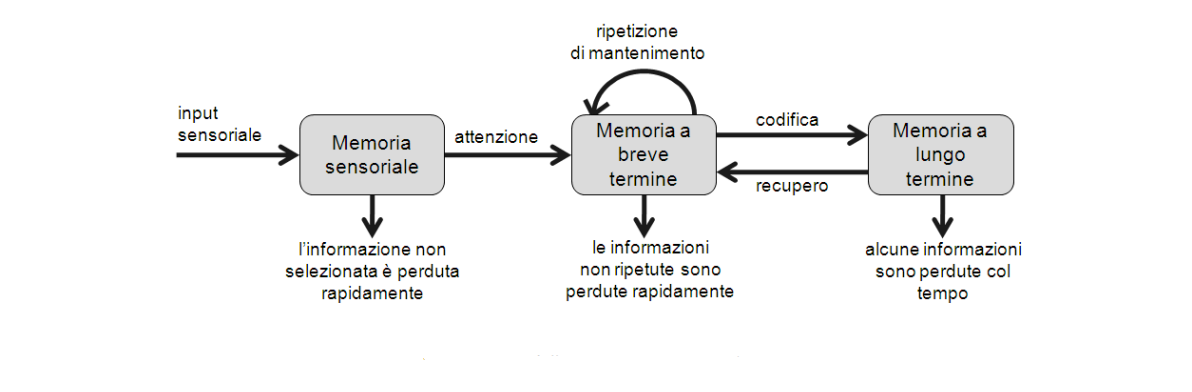
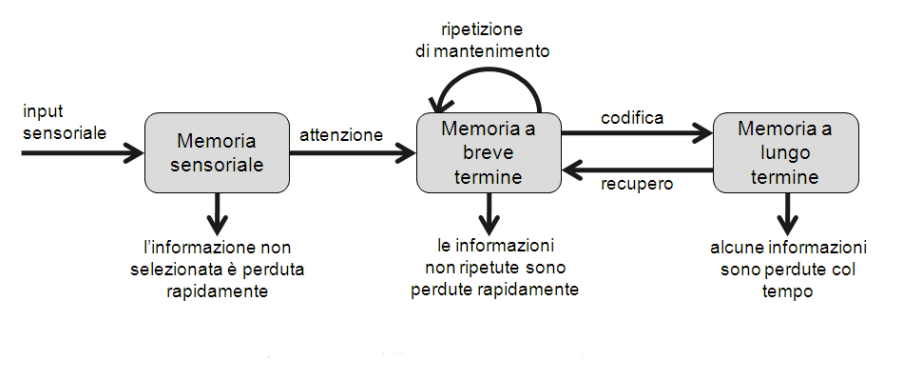
changes ium3

Changed region(s): [[0.0, 0.0617, 0.9518, 0.7712], [0.4298, 0.6787, 0.6447, 0.7712]]

diff --git a/src/components/Blog/articoli/IUM/IUM3/IUM3.js b/src/components/Blog/articoli/IUM/IUM3/IUM3.js
@@ -9,7 +9,12 @@ import '../../Articoli.css';
 import Memorie from './Memorie.webp';
 import Latex from 'react-latex';
 function IUM3() {
-    const piuomeno=`$$ \\pm $$`
+    const piuomeno=`$$ \\pm $$`;
+    const alfa=`$$ \\alpha $$`;
+    const tUnnno=`$$ T_1 $$`;
+    const tN=`$$ T_n $$`;
+    const formula=`$$ T_n = T_1 \\times n^{- \\alpha}$$`;
+    const formula2=`$$ T = a + b \\times log_2 \\bigl( \\frac{D}{S} + 1 \\bigr) $$`;
   return (
     <div>
         <Helmet>
@@ -17,14 +22,16 @@ function IUM3() {
             crossorigin="anonymous"></script>
             <meta name="viewport" content="width=device-width, initial-scale=1" />
             <title>Federico Calò Blog -  3. Interazione Uomo Macchina - Conoscere l&#39;utente</title>
-            <meta name='keywords' content='interazione uomo macchina, ium, appunti universitari, usabilità, modello di Norman, ciclo di feedback,memorabilità,affordance,apprendibilità, accessibilità '/>
-            <meta name='description' content='Cosa si intende per memorabilità? Che cos&#39;è l&#39;apprendibilià? Andiamo a scoprirlo dandone una definizione in base ai vari standard ISO '/>
+            <meta name='keywords' content='interazione uomo macchina, ium, appunti universitari, usabilità, conoscere l&#39;utente, attenzione, task analysis, GOMS, goals, operators, Methods, Selection rules, attenzione selettiva, attenzione divisiva, fattori esogeni, fattori endogeni, memoria sensoriale, memoria a breve termine, memoria a lungo termine, short time memory, STM '/>
+            <meta name='description' content=' All&#39;interno dello sviluppo incentrato sull&#39;utente, possiamo visualizzare l&#39;utente da molteplici punti di vista. E&#39; fondamentale analizzare i processi cognitivi, le caratteristiche personali e il 
+                    ruolo dei singoli utenti che interagiscono con il sistema. Il progettista di sistemi interattivi non deve perdere di vista questi obiettivi, vediamo come. '/>
             <meta name='robots' content='index,follow'/>
             <meta name='language' content='IT'/>
             <meta name='topic' content='Programmazione e Sviluppo'/>
             <meta name='author' content='Federico Calò, fedcal01@gmail.com'/>
             <meta name='og:title' content='Federico Calò Blog - 3. Interazione Uomo Macchina - Conoscere l&#39;utente'/>
-            <meta name='og:description' content='Cosa si intende per memorabilità? Che cos&#39;è l&#39;apprendibilià? Andiamo a scoprirlo dandone una definizione in base ai vari standard ISO'/>
+            <meta name='og:description' content='All&#39;interno dello sviluppo incentrato sull&#39;utente, possiamo visualizzare l&#39;utente da molteplici punti di vista. E&#39; fondamentale analizzare i processi cognitivi, le caratteristiche personali e il 
+                    ruolo dei singoli utenti che interagiscono con il sistema. Il progettista di sistemi interattivi non deve perdere di vista questi obiettivi, vediamo come. '/>
             <meta name='og:email' content='fedcal01@gmail.com'/>
             <meta name='og:phone_number' content='+39 3332673965'/>
             <meta name="apple-mobile-web-app-title" content="Federico Calò Blog -  3. Interazione Uomo Macchina - Conoscere l&#39;utente"/> 
@@ -61,13 +68,13 @@ function IUM3() {
                     <li><i>livello comportamentale</i></li>
                     <li><i>il ruolo in cui l'utente si trova</i></li>
                 </ul>
-                <p className='post-text'> Ogni livello deve essere studiato con metodi diversi, approcciando a diversi metodi interdisciplinari, quali ad esempio quelli relativi alla psicologia sperimentale e all'etnografia. A livello cognitivo, una pietra miliare è rappresentata dal libro <a href="https://amzn.to/3W1QA80" className='link'>"The Psychology of Human-Computer Interaction"</a>,
-                 in cui gli autori specificano come i processi sensoriali, cognitivi e motori che caratterizzano l'utente influenza il modo in cui il progettista sviluppi il sistema in maniera consona rispetto ai compiti richiesti. Questo avviene generalmente attraverso l'analisi dei compiti, chiamata generalmente <strong>task analysis</strong>, attraverso la quale si valutano diverse soluzioni
-                  progettuali prima della loro realizzazione, per poter scegliere quella più conveniente dal punto di vista prestazionale. Nel libro si può riscontrare la descrizione di un metodo che prende il nome di <strong>GOMS</strong>, ovvero <i>goals, operators, Methods and Selection rules</i>, in base al quale si decompone l'interazione con il sistema nelle sue azioni elementari. I <i>Goals</i>  definiscono 
+                <p className='post-text'> Ogni livello deve essere studiato con metodi disciplinari diversi, quali ad esempio quelli relativi alla psicologia sperimentale e all'etnografia. A livello cognitivo, una pietra miliare è rappresentata dal libro <a href="https://amzn.to/3W1QA80" className='link'>"The Psychology of Human-Computer Interaction"</a>,
+                 in cui gli autori specificano come i processi sensoriali, cognitivi e motori che caratterizzano l'utente, influenzano il modo in cui il progettista sviluppa il sistema in maniera consona rispetto ai compiti richiesti. Questo avviene generalmente attraverso l'analisi dei compiti, chiamata generalmente <strong>task analysis</strong>, attraverso la quale si valutano diverse soluzioni
+                  progettuali prima della loro realizzazione, per poter scegliere quella più conveniente dal punto di vista prestazionale. Nel libro citato, si può riscontrare la descrizione di un metodo che prende il nome di <strong>GOMS</strong>, ovvero <i>goals</i>, <i>operators</i>, <i>Methods</i> and <i>Selection rules</i>, in base alle quali si decompone l'interazione con il sistema nelle sue azioni elementari. I <i>Goals</i>  definiscono 
                   gli obiettivi che l'utente intende raggiungere, le <i>Operators</i> costituiscono tutte quelle azioni necessarie a raggiungere gli obiettivi. Mentre, per quanto riguarda i <i> Methods</i>, vengono raggruppate tutte le seguenze di operazioni che il sistema offre per raggiungere ogni singolo goals. L'insieme di più methods possibili per uno stesso obiettivo, prende il nome
                   di <i>Selection rules</i>, correlato da una descrizione di criteri di selezione di un metodo rispetto ad un altro.</p>
                 
-                <p className='post-text'>Questa tecnica permette al progettista di individuare i limiti in termini di prestazione del sistema, tenendo conto dei limiti dell'utente e della possibilità che quest'ultimo sbagli. Entra in gioco anche l'attenzione, ovvero l'insieme di processi cognitivi che consentono all'utente di selezionare solo le informazioni più importanti da elaborare. E' come se 
+                <p className='post-text'>Questa tecnica permette al progettista di individuare i limiti in termini di prestazione del sistema, tenendo conto dei limiti dell'utente e della possibilità che quest'ultimo sbagli. Entra in gioco anche <strong>l'attenzione</strong>, ovvero l'insieme di processi cognitivi che consentono all'utente di selezionare solo le informazioni più importanti da elaborare. E' come se 
                  vi fosse un filtro che ci permette di focalizzare l'attenzione in particolari dettagli rispetto ad altri. Questo ci permette di classificare l'attenzione in <strong>attenzione selettiva</strong>, quando ci si focalizza su un singolo evento, e in <strong>attenzione divisiva</strong>, quando vengono seguiti più eventi contemporaneamente. Questi due tipi di attenzione sono tra di loro
                   dipendenti, in quanto aspetti di uno stesso fenomeno. Vi sono diverse teorie sull'attenzione che analizzano di diversi fattori esterni, <i>esogeni</i>, e interni, <i>endogeni</i>. I primi fanno riferimento alle caratteristiche degli stimoli che arrivano ai nostri sensi, mentre nel secondo caso siamo noi a guidare l'attenzione. Inoltre si è dimostrato come riusciamo a concentrare 
                   maggiore attenzione in compiti sempre più difficili.</p>
@@ -81,7 +88,7 @@ function IUM3() {
 
                 <p className='post-text'>Un altro elemento da tenere in considerazione è la memoria dell'utente che può essere divisa in <i>memoria sensoriale</i>, <i>memoria a breve termine</i>, <i>memoria a lungo termine</i>. Questi tipi di memoria sono tra di loro collegate, e si può rappresentare in questo modo: </p>
                 <div className='box-image'>
-                    <img src={Memorie} alt="Schema di rete ad accesso in forma ibrida" className='post-img2'/>
+                    <img src={Memorie} alt="Schema di rete ad accesso in forma ibrida" className='post-img3'/>
                     <p className='image-capture'>Figura 1: Vari tipi di memorie</p>
                 </div>
                 <p className='post-text'>Come si può evincere, quando arriva un <i>input sensoriale</i>, i suoi dati vengono elaborati dapprima dalla memoria sensoriale, la quale li registra temporaneamente, li seleziona e li carica nella memoria a breve termine. Quest'ultima è la memoria dedicata alle elaborazioni mentali, anche se le informazioni vengono memorizzate per un periodo di tempo molto breve, in quanto 
@@ -89,7 +96,24 @@ function IUM3() {
                 in modo unitario. Questo aspetto deve essere considerato dal progettista che dovrà facilitare il chunking, facendo memorizzare all'utente solo elementi che abbiano significato, e deve minimizzare le richieste di memorizzazione. Per quanto riguarda la memoria a lungo termine, il progetista deve riuscire a trovare il miglior modo possibile per poter codificare e recuperare le informazioni in essa.</p>
 
                 <p className='post-text'> Un altro aspetto dell'utente che il progettista deve tenere in considerazione è la vista, il cui sguardo segue percorsi irregolari, dettati a volte dalla disposizione degli oggetti su cui cade l'attenzione. In questa situazione è sufficiente utilizzare alcune tecniche di eye-tracking, ovvero tecniche attraverso le quali si cerca di seguire la direzione dello sguardo, andando successivamente
-                 ad analizzarla e a distribuire in maniera ottimale gli oggetti. Le ultime due caratteristiche da considerare si riferiscono alle attività motorie e il contesto in cui l'utente si identifica in relazione del sistema.</p>
+                 ad analizzarla e a distribuire in maniera ottimale gli oggetti. Vi sono diverse componenti dell'occhio che entrano in gioco e che vanno esaminate, ad esempio l'asse visivo o banamelmente i fotorecettori. Quest'ultimi fanno in modo che noi distinguiamo meglio i dettagli e i colori degli oggetti quando vengono fissati direttamente. Si distingue tra <strong>visione foveale</strong>, quando il centro dell'asse visivo guarda un
+                 determinato oggetto, o di <strong>visione periferica</strong>, quando lo vediamo con la "coda dell'occhio". Inoltre, un elemento da non sottovalutare, è <strong>l'acuità visiva</strong>, o <i>visual acuity</i>, ovvero la capacità dell'occhio di distinguere due punti vicini. Questa proprietà è diversa da individuo a individuo e diminuisce con l'età.</p>
+
+                <p className='post-text'>Oltre all'acuità visiva, un individuo differisce dall'altro anche per la capacità di distinguere correttamente i colori, il cui compito è affidato alla retina dell'occhio. I tre coni principali che vengono captati sono il <i>Red</i> (R), il <i>Blue</i> (B)  e il <i>Green</i> (G). In alcuni soggetti la visione di uno di questi coni è difettosa, mancante o alterata. Questo fenomeno prende
+                 il nome di <strong>cecità cromatica</strong>, detto comunemente <i>daltonismo</i>. Quindi il progettista deve considerare anche tutte quelle patologie che possono creare una bariera tra l'utente e il sistema, cercando di risolverle attraverso opportune tecnologie.</p>
+
+                 <p className='post-text'>Un'altra caratteristica dell'utente è il suo sistema motorio interessato in alcuni schemi motori che l'utente deve apprendere per interagire con il sistema. Il primo schema motorio è il coordinamento dell'occhio e della mano che interessa l'utilizzo di alcuni sistemi di manipolazione tra cui il mouse. Quando il progettista inserisce uno schema motorio particolare, deve permettere ad ogni utente di poterlo 
+                    imparare, anche attraverso particolari strumenti che aiutano ad abbattere tutte quelle bariere che si creano nel caso in cui ci sia un difetto. L'apprendimento motorio di un utente procede per gradi, eseguendo i movimenti iniziali in maniera incerta, approssimata e commettendo errori; mentre con il passare del tempo l'utente acquisisce esperienza e migliora la sua interazione motoria con il sistema. Si deduce 
+                    che il tempo necessario per compiere un compito si riduce con la pratica, secondo una legge di potenza definita <strong>legge di potenza della pratica</strong> <i>(Power Law of Practice)</i>. Definendo <Latex>{tUnnno}</Latex> come tempo impiegato per eseguire la prima prova, <Latex>{tN}</Latex> come il tempo impiegato per effettuare l'n-esima prova e <Latex>{alfa}</Latex> una costante per dipendente dal tipo di 
+                    compito il cui valore è tipicamente nell'intervallo 0.2-0.6, si ha la seguente formula: <Latex>{formula}</Latex>. La rappresentazione grafica di questa funzione rappresenta la <i>curva di apprendimento media</i>, o definita meglio come <strong>learning curve</strong>, relativa al compito che si sta studiando. Quanto più velocemente questa curva si avvicina alle ascisse, più facilmente l'utente imparerà il compito.
+                 </p>
+
+                 <p className='post-text'>
+                    Un'altra legge molto importante è la <strong>Legge di Fitts</strong>, la quale mette in relazione il sistema con l'azione più frequente che l'utente possa fare, ovvero l'azione di spostare il dito sul bersaglio. Definendo <i>T</i> come il tempo medio per effettuare il movimento, <i>D</i> come la distanza tra il punto di partenza e il centro del bersaglio, <i>S</i> come la dimensione del bersaglio misurata lungo l'asse del 
+                    movimento, <i>a</i> e <i>b</i> definiti come costanti dipendenti dallo strumento di puntamento utilizzato, a indica in particolare il tempo necessario per metter il movimento/fermare il dispositivo, si ha la seguente formula: <Latex>{formula2}</Latex> . Questa legge può essere applicata in svariate situazioni per modellare azioni point and click o di drag and drop con differenti dispositivi di puntamento. La si può applicare 
+                    solo ai mivmenti lungo una sola dimensione e in condizioni normali. Un accorgimento che questa legge ci porta a considerare è l'applicazione di menù pop-up che appaiono accanto al puntatore, in sostituzione dei menù a tendina.
+
+                 </p>
                </section>
         </div>
         <Footer/>

diff --git a/src/components/Blog/articoli/IUM/IUM.css b/src/components/Blog/articoli/IUM/IUM.css
@@ -7,6 +7,10 @@
     height: 530px;
 }
 
+.post-content .box-image .post-img3{
+    width: 912px;
+    height: 389px;
+}
 
 
 @media screen and (max-width:1024px){
@@ -14,11 +18,19 @@
         width: 700px;
         height: 350px;
     }
+    .post-content .box-image .post-img3{
+        width: 730px;
+        height: 311px;
+    }
 }
 @media screen and (max-width:800px){
     .post-content .box-image .post-img2{
         width: 600px;
         height: 310px;
+    }
+    .post-content .box-image .post-img3{
+        width: 584px;
+        height: 288px;
     }
 }
 @media screen and (max-width:650px){
@@ -30,7 +42,14 @@
         width: 500px;
         height: 280px;
     }
+
+    .post-content .box-image .post-img3{
+        width: 467px;
+        height: 200px;
+    }
 }
+
+
 @media screen and (max-width:550px){
     .post-content .box-image .post-img2{
         width: 400px;
@@ -41,6 +60,14 @@
         height: 450px !important;
     }
 }
+
+@media screen and (max-width:500px){
+    .post-content .box-image .post-img3{
+        width: 350px;
+        height: 150px;
+    }
+}
+
 @media screen and (max-width:450px){
     .post-content .box-image .post-img2{
         width: 360px;
@@ -70,6 +97,10 @@
     .post-content .box-image .post-img1{
         width: 250px !important;
         height: 300px !important;
+    }
+    .post-content .box-image .post-img3{
+        width: 250px;
+        height: 110px;
     }
 }
 

diff --git a/src/components/Blog/BlogBoxes.js b/src/components/Blog/BlogBoxes.js
@@ -18,7 +18,7 @@ function BlogBoxes() {
             </div>
             <section className='post container'>
 
-                <div className='post-box casestudy all'>
+                <div className='post-box uni all'>
                     <img src={LogoIum} alt="Logo riferito ai post della materia reti di calcolatori" className='post-img'/>
                     <h3 className='category'>Appunti Università - Interazione Uomo Macchina</h3>
                     <h1 className='post-title'>3. Conoscere l'utente</h1>
